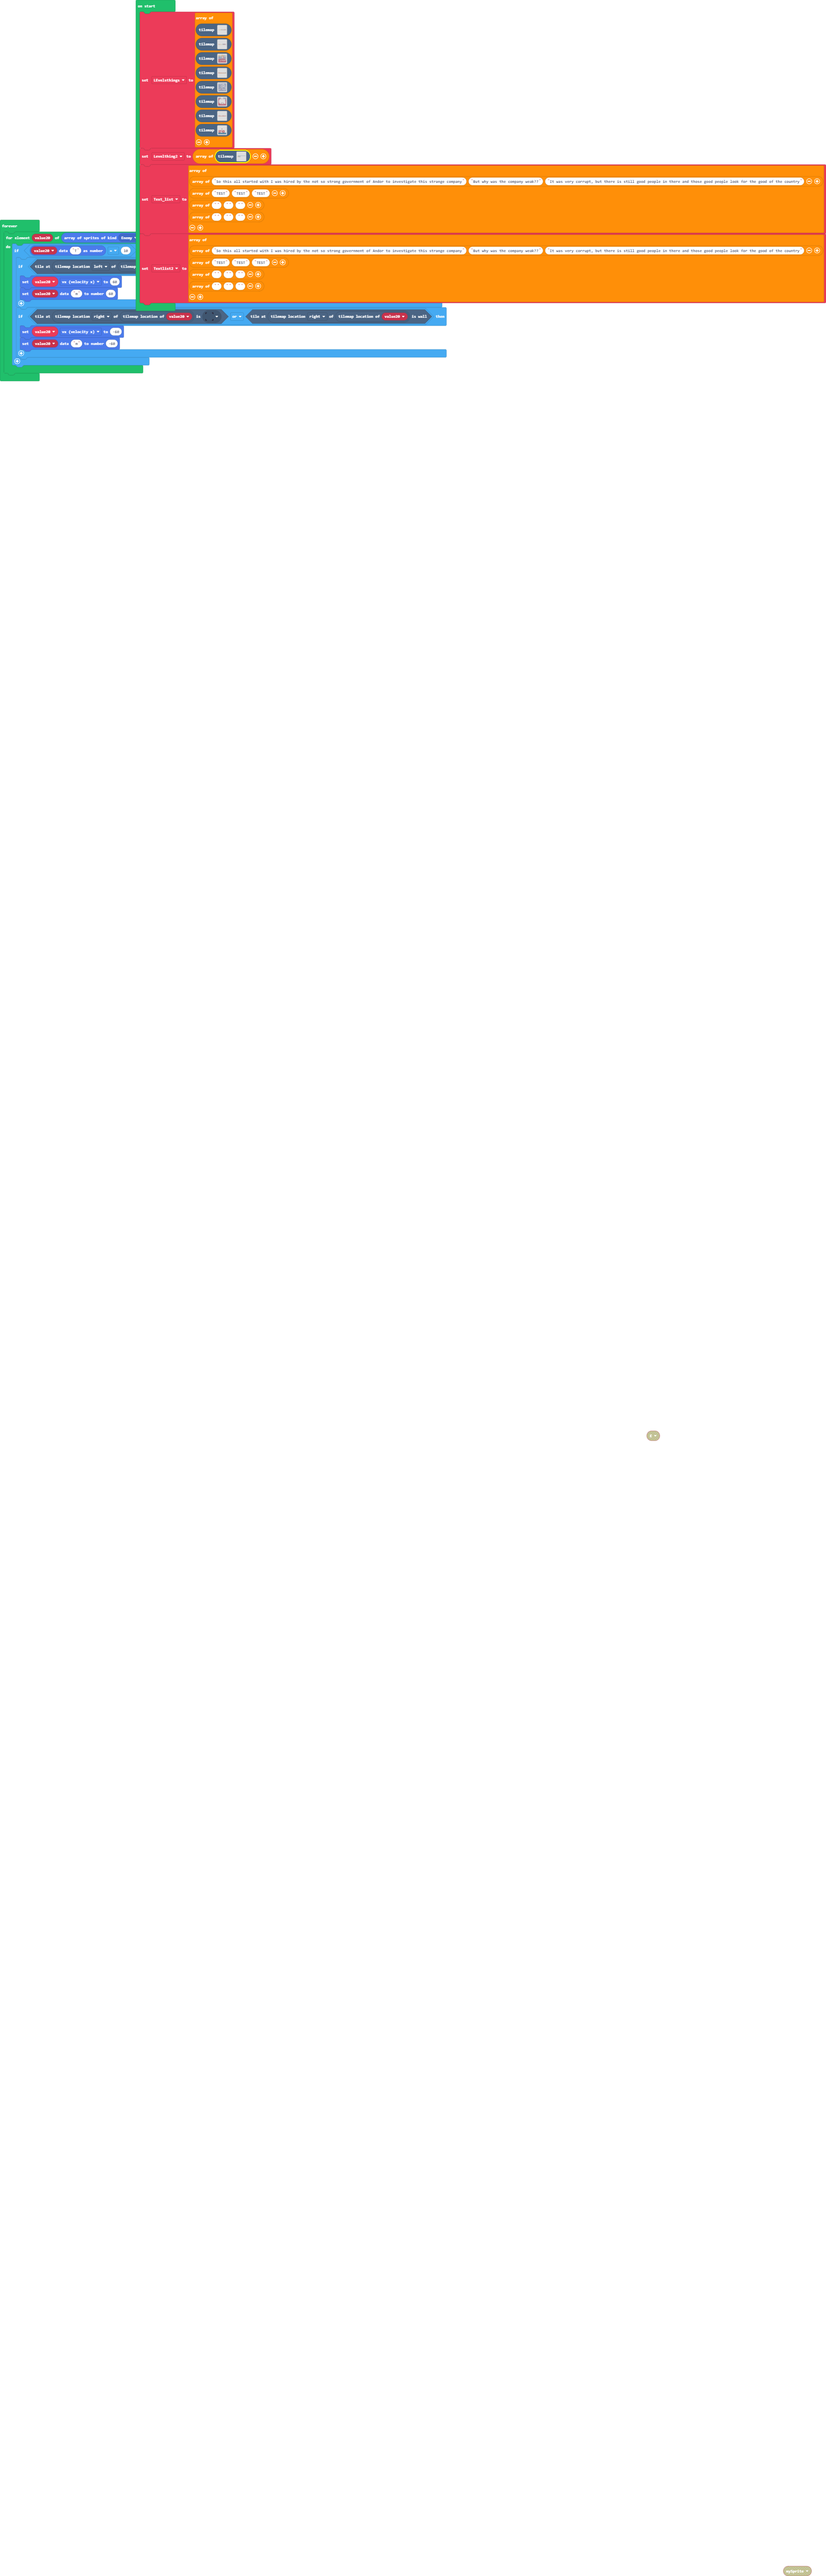
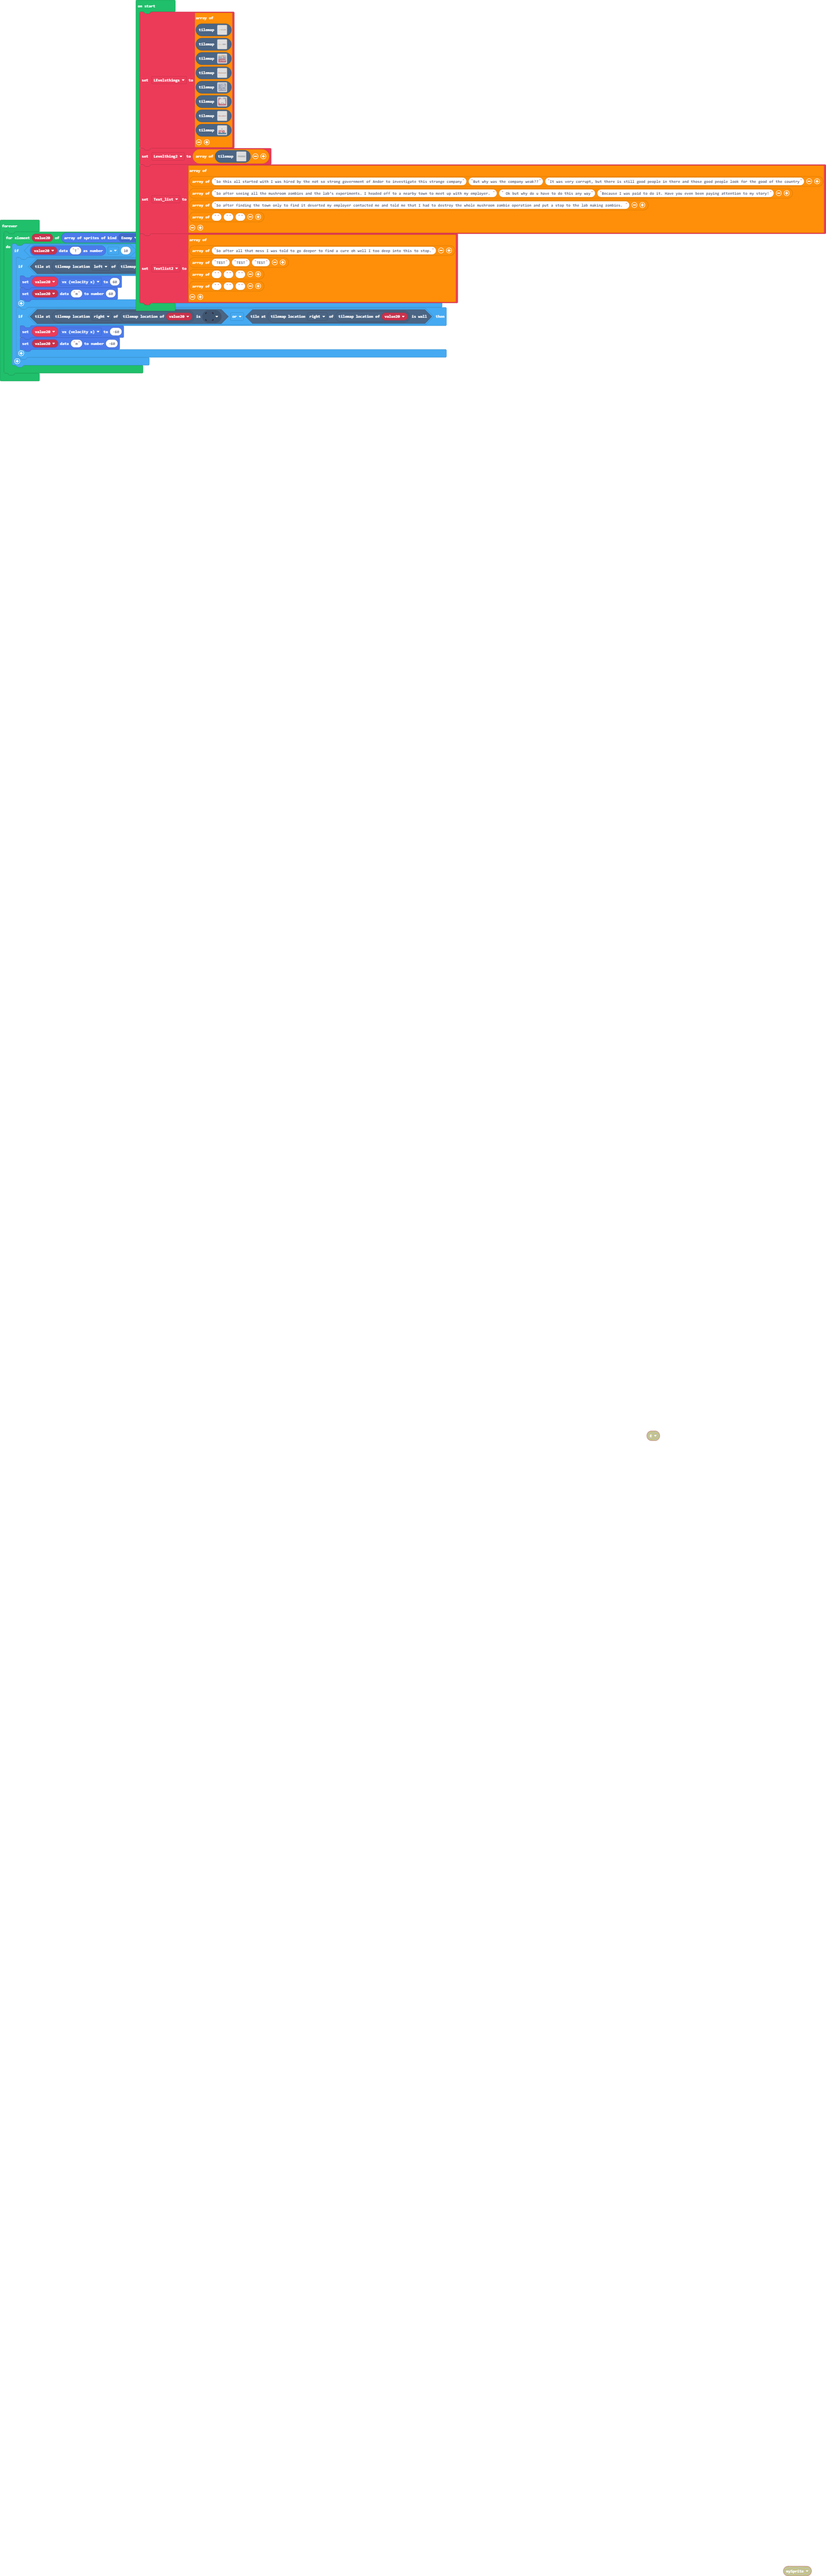
Level 1 of chapter 2 done

Changed region(s): [[0.2799, 0.0622, 1.0, 0.1243]]

diff --git a/tilemap.g.ts b/tilemap.g.ts
@@ -1355,24 +1355,24 @@ namespace myTiles {
 2 2 2 2 2 2 2 2 2 2 2 2 2 2 2 2 
 `, [myTiles.transparency16,myTiles.tile17,myTiles.tile56,myTiles.tile59], TileScale.Sixteen);
             case "level45":
[2 lines of base64/hex data omitted]
 .........2222222222222222222222222222222222222222222222222222222222222222222222222222222222222222222
 .........2222222222222222222222222222222222222222222222222222222222222222222222222222222222222222222
 .........2222222222222222222222222222222222222222222222222222222222222222222222222222222222222222222
-....................................................................................................
-....................................................................................................
-....................................................................................................
-.........222222222222...............................................................................
-.........222222222222............222................................................................
-222222222222222222222......222...222................................................................
-222222222222222222222......222...222................................................................
-222222222222222222222......222...222................................................................
-222222222222222222222......222...222................................................................
-22222222222222222222......2222...222................................................................
-22222222222222222222.......222...222................................................................
-22222222222222222222.......222...222................................................................
-22222222222222222222.......222...222................................................................
-`, [myTiles.transparency16,myTiles.tile1,myTiles.tile8,myTiles.tile5,myTiles.tile10,myTiles.tile12,myTiles.tile4,myTiles.tile9,myTiles.tile17,myTiles.tile20,myTiles.tile21,myTiles.tile25,myTiles.tile11,myTiles.tile6,myTiles.tile7,myTiles.tile24,myTiles.tile35,myTiles.tile39,myTiles.tile47,myTiles.tile54,myTiles.tile59], TileScale.Sixteen);
+............................................................222.....................................
+.............................................................22.....................................
+.....................................................22..22...2.....................................
+.........222222222222................................22..22.........................................
+.........222222222222.........222...............222..22..22.............22222.......................
+222222222222222222222...222...222..........222..222..22..22.............2...........................
+222222222222222222222...222...222.22..22...222..222..22...........222...22222........222............
+222222222222222222222...222...222.22..22...222..222..........22..22222...2222........222........2222
+222222222222222222222...222...222.22..22...222..222......22..22..22222.........222...222..222...2222
+22222222222222222222....222...222.22..22...222..222..22..22..22..22222.........222...222..222...2222
+22222222222222222222....222...222.22..22...222..222..22..22..22..22222.........222...222..222...2222
+22222222222222222222....222...222.22..22...222.2222..22..22..22..22222.........222...222..222.......
+22222222222222222222....222...222.22..22...222.2222..22..22..22..22222.........222...222..222.......
+`, [myTiles.transparency16,myTiles.tile1,myTiles.tile8,myTiles.tile5,myTiles.tile10,myTiles.tile12,myTiles.tile4,myTiles.tile9,myTiles.tile17,myTiles.tile20,myTiles.tile21,myTiles.tile25,myTiles.tile11,myTiles.tile6,myTiles.tile7,myTiles.tile24,myTiles.tile35,myTiles.tile39,myTiles.tile47,myTiles.tile54,myTiles.tile59,myTiles.tile19,myTiles.tile26,myTiles.tile30,myTiles.tile36,myTiles.tile40,myTiles.tile46,myTiles.tile48,myTiles.tile56,myTiles.tile60], TileScale.Sixteen);
         }
         return null;
     })

diff --git a/main.ts b/main.ts
@@ -11,12 +11,12 @@ tilemap`level46`
 let Levelthing2 = [tilemap`level45`]
 let Text_list = [
 ["So this all started with I was hired by the not so strong government of Andor to investigate this strange company", "But why was the company weak??", "It was very corrupt, but there is still good people in there and those good people look for the good of the country"],
-["TEST", "TEST", "TEST"],
-["", "", ""],
+["So after seeing all the mushroom zombies and the lab’s experiments. I headed off to a nearby town to meet up with my employer. ", " Ok but why do u have to do this any way", "Because I was paid to do it. Have you even been paying attention to my story!"],
+["So after finding the town only to find it deserted my employer contacted me and told me that I had to destroy the whole mushroom zombie operation and put a stop to the lab making zombies. "],
 ["", "", ""]
 ]
 let Textlist2 = [
-["So this all started with I was hired by the not so strong government of Andor to investigate this strange company", "But why was the company weak??", "It was very corrupt, but there is still good people in there and those good people look for the good of the country"],
+["So after all that mess I was told to go deeper to find a cure oh well I too deep into this to stop."],
 ["TEST", "TEST", "TEST"],
 ["", "", ""],
 ["", "", ""]
